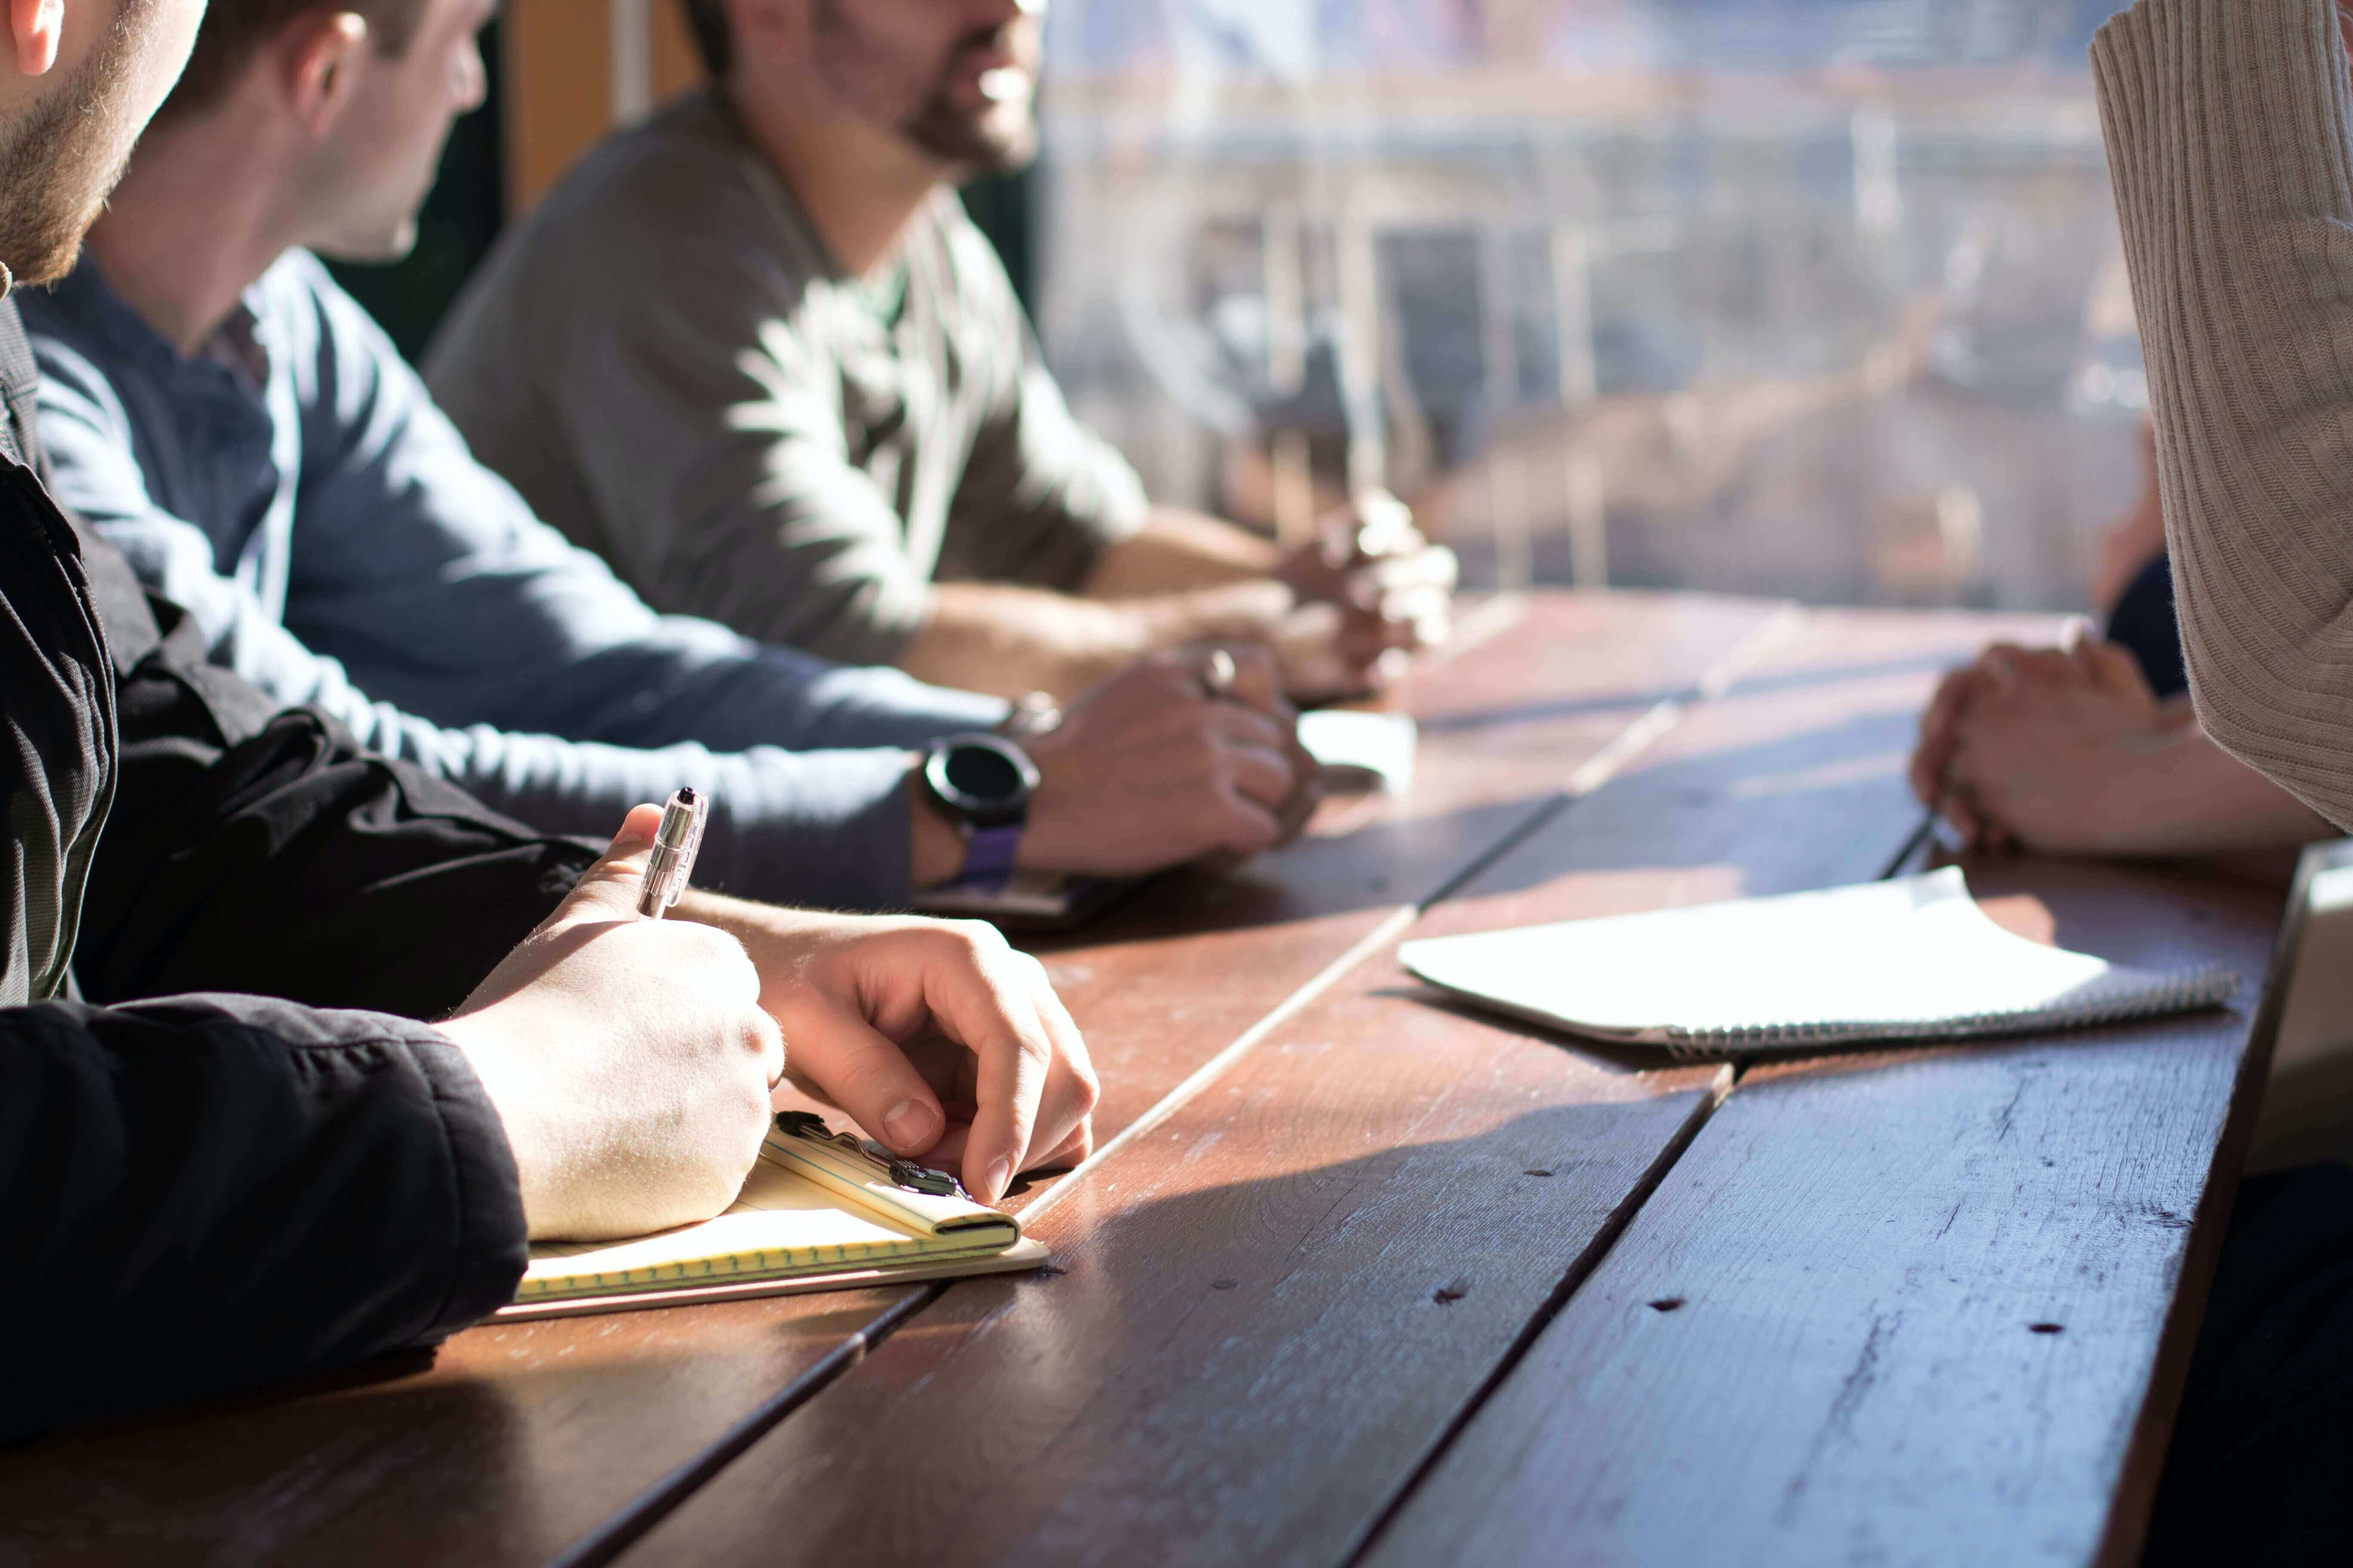
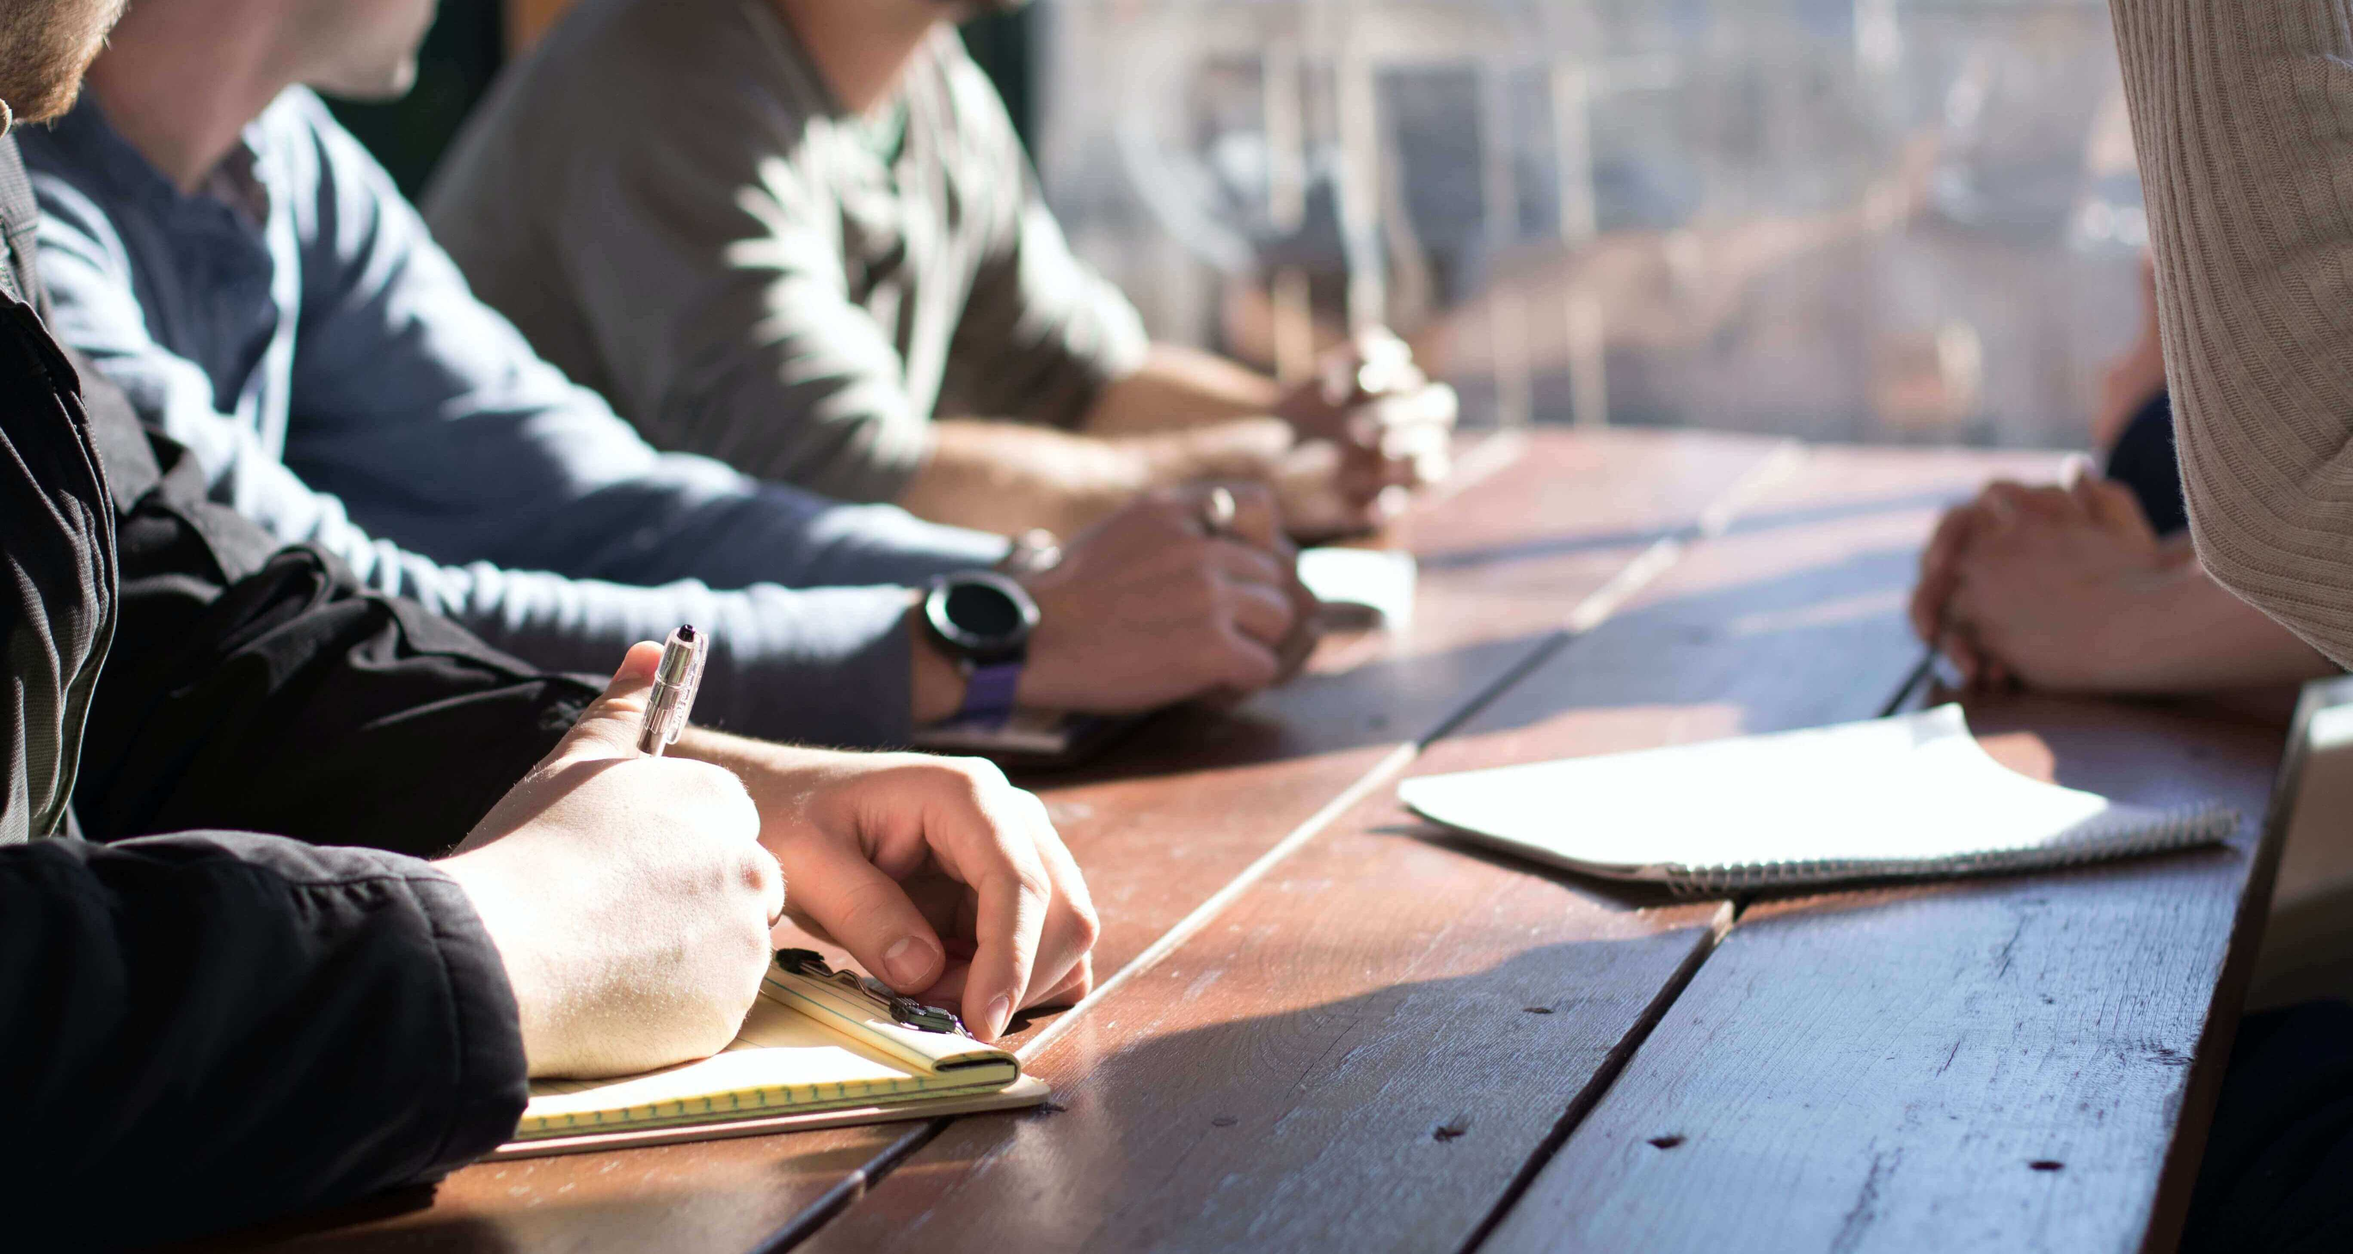
edit sass

diff --git a/css/main.css b/css/main.css
@@ -1,8 +1,3 @@
-.quienesSomos h2, .quienesSomos p {
-  font-family: "Open Sans";
-  text-align: center;
-  padding: 10px; }
-
 * {
   margin: 0;
   padding: 0; }
@@ -43,6 +38,15 @@
         margin: 10px 50px 10px 0px; }
       .footer__sec__redes img {
         height: 50px; }
+
+.banner {
+  position: relative; }
+  .banner__img {
+    position: relative;
+    height: 400px; }
+
+.imagen__texto {
+  position: absolute; }
 
 .imagen__h2 {
   color: #fec82f;
@@ -99,6 +103,8 @@
     background-image: linear-gradient(#00659fa1, #00659fc1); }
 
 @media only screen and (max-width: 768px) {
+  .banner__img {
+    height: 300px; }
   .footer__sec__ssn img {
     width: 250px; }
   .footer__sec__redes a {
@@ -106,11 +112,6 @@
   .boton__cotizacion {
     position: relative;
     left: 0%; } }
-
-.quienesSomos h2, .quienesSomos p {
-  font-family: "Open Sans";
-  text-align: center;
-  padding: 10px; }
 
 .carousel-item {
   height: 400px; }
@@ -137,11 +138,9 @@
   transform: scale(1.2); }
 
 .quienesSomos {
-  height: auto;
+  height: fit-content;
   background-color: whitesmoke;
-  background-image: url("../Imagenes/fondoqs.jpg");
-  background-position: center;
-  background-size: cover;
+  font-family: "Open Sans";
   text-align: center;
   padding: 30px 200px; }
   .quienesSomos p {
@@ -170,17 +169,7 @@
     .carousel-item img {
       height: 250px; }
   .quienesSomos {
-    background-size: cover;
-    padding: 20px; }
-    .quienesSomos h2 {
-      padding: 5px;
-      margin-top: 40px; } }
-
-.agro {
-  height: 400px;
-  background-color: grey;
-  background-image: url(../../Imagenes/agro.jpg);
-  background-size: cover; }
+    padding: 20px; } }
 
 .cedasaba {
   display: flex;
@@ -196,65 +185,13 @@
   .cedasaba img {
     height: 100px; }
 
-@media only screen and (max-width: 768px) {
-  .agro {
-    height: 300px; } }
+.auditoria__text {
+  margin: 20px;
+  font-family: "Open Sans";
+  font-size: 20px; }
 
-.auditoria {
-  height: 400px;
-  background-color: grey;
-  background-image: url(/Imagenes/relevamiento.jpg);
-  background-size: cover; }
-  .auditoria__text {
-    margin: 20px;
-    font-family: "Open Sans";
-    font-size: 20px; }
-  .auditoria__aviso {
-    font-weight: bolder;
-    border: solid 3px #003e55;
-    padding: 10px;
-    text-align: center; }
-
-@media only screen and (max-width: 768px) {
-  .auditoria {
-    height: 300px; } }
-
-.empresa {
-  height: 400px;
-  background-color: grey;
-  background-image: url(/Imagenes/paratuempresa.jpg);
-  background-size: cover; }
-
-@media only screen and (max-width: 768px) {
-  .empresa {
-    height: 300px; } }
-
-.persona {
-  height: 400px;
-  background-color: grey;
-  background-image: url(/Imagenes/paravos.jpg);
-  background-size: cover; }
-
-@media only screen and (max-width: 768px) {
-  .persona {
-    height: 300px; } }
-
-.cotizacion {
-  height: 400px;
-  background-color: grey;
-  background-image: url(/Imagenes/cotizacion.jpg);
-  background-size: cover; }
-
-@media only screen and (max-width: 768px) {
-  .cotizacion {
-    height: 300px; } }
-
-.productores {
-  height: 400px;
-  background-color: grey;
-  background-image: url(/Imagenes/productores.jpg);
-  background-size: cover; }
-
-@media only screen and (max-width: 768px) {
-  .productores {
-    height: 300px; } }
+.auditoria__aviso {
+  font-weight: bolder;
+  border: solid 3px #003e55;
+  padding: 10px;
+  text-align: center; }

diff --git a/index.html b/index.html
@@ -66,13 +66,13 @@
       </div>
       <div class="carousel-inner">
         <div class="carousel-item active">
-          <img src="./Imagenes/fondo1.png" class="d-block w-100" alt="Imagen de fondo">
+          <img src="./Imagenes/fondo1.jpg" class="d-block w-100" alt="Imagen de fondo">
         </div>
         <div class="carousel-item">
-          <img src="./Imagenes/fondo2.png" class="d-block w-100" alt="Imagen de fondo">
+          <img src="./Imagenes/fondo2.jpg" class="d-block w-100" alt="Imagen de fondo">
         </div>
         <div class="carousel-item">
-          <img src="./Imagenes/fondo3.png" class="d-block w-100" alt="Imagen de fondo">
+          <img src="./Imagenes/fondo3.jpg" class="d-block w-100" alt="Imagen de fondo">
         </div>
       </div>
       <button class="carousel-control-prev" type="button" data-bs-target="#carouselExampleIndicators" data-bs-slide="prev">

diff --git a/scss/components/_index.scss b/scss/components/_index.scss
@@ -1,5 +1,3 @@
-@import '../variables';
-
 .carousel-item{
     height: 400px;
     img{
@@ -27,21 +25,15 @@
 }
 
 .quienesSomos{
-    height: auto;
+    height: fit-content;
     background-color: map-get($colores, fondo);
-    background-image: url("../Imagenes/fondoqs.jpg");
-    background-position: center;
-    background-size: cover;
+    font-family: map-get($fonts, texto);
     text-align: center;
     padding: 30px 200px;
-    h2{
-        @extend %text-center;
-    }
     p{
-        @extend %text-center;
         font-weight: bold;
-
     }
+
 }
 
 .formulario{
@@ -75,12 +67,6 @@
     }
 
     .quienesSomos{
-        background-size: cover;
         padding: 20px;
-        h2{
-             padding: 5px;
-             margin-top: 40px;
-        }
     }
-
 }

diff --git a/paginas/pedi-tu-cotizacion.html b/paginas/pedi-tu-cotizacion.html
@@ -51,9 +51,12 @@
     </nav>
   </header>
   <main>
-    <section class="cotizacion">
-      <h2 class="imagen__h2">Pedí tu cotización</h2>   
-      <h4 class="imagen__h4">Compelta el formulario para poder darte el mejor asesoramiento</h4>
+    <section class="banner row">
+      <img src="../Imagenes/cotizacion.jpg" alt="Foto de fondo de una persona usando la computadora" class="banner__img">
+      <div class="imagen__texto">
+        <h2 class="imagen__h2">Pedí tu cotización</h2>   
+        <h4 class="imagen__h4">Compelta el formulario para poder darte el mejor asesoramiento</h4>
+      </div>
     </section>
     <section class="titulo__linea">  <h4>FORMULARIO DE COTIZACIÓN</h4></section>
     <Section class="formulario">

diff --git a/paginas/agroindustria.html b/paginas/agroindustria.html
@@ -51,10 +51,13 @@
     </nav>
   </header>
 
-  <main class="main__agro">
-    <section class="agro">
-      <h2 class="imagen__h2">Agroindustria</h2>   
-      <h4 class="imagen__h4">Proteje el cultivo de tu esfuerzo</h4>
+  <main>
+    <section class="banner row">
+      <img src="../Imagenes/agro.jpg" alt="Foto de fondo con tematica agro" class="banner__img">
+      <div class="imagen__texto">
+        <h2 class="imagen__h2">Agroindustria</h2>   
+        <h4 class="imagen__h4">Proteje el cultivo de tu esfuerzo</h4>
+      </div>
     </section>
     <section class="titulo__linea"><h4>PRODUCTOS QUE COMERCIALIZAMOS</h4></section>
     <section class="accordion accordion-flush row" id="accordionFlushExample">

diff --git a/paginas/productores.html b/paginas/productores.html
@@ -51,9 +51,12 @@
     </nav>
   </header>
   <main>
-    <section class="productores">
-      <h2 class="imagen__h2">Productores asesores de seguros</h2>   
-      <h4 class="imagen__h4">Sumate a nuestra red de productores</h4>
+    <section class="banner row">
+      <img src="../Imagenes/productores.jpg" alt="Foto de fondo de un equipo de trabajo" class="banner__img">
+      <div class="imagen__texto">
+        <h2 class="imagen__h2">Productores asesores de seguros</h2>   
+        <h4 class="imagen__h4">Sumate a nuestra red de productores</h4>
+      </div>
     </section>
     <section class="titulo__linea"><h4>FORMULARIO DE CONTACTO</h4></section>
     <section class="formulario">

diff --git a/paginas/auditoria-de-riesgo.html b/paginas/auditoria-de-riesgo.html
@@ -51,9 +51,12 @@
     </nav>
   </header>
   <main>
-    <section class="auditoria">
-      <h2 class="imagen__h2">Auditoría de riesgo</h2>   
-      <h4 class="imagen__h4">Seguí protegiendo tu patrimonio</h4>
+    <section class="banner row">
+      <img src="../Imagenes/relevamiento.jpg" alt="Foto de fondo de gente trabajando" class="banner__img">
+      <div class="imagen__texto">
+        <h2 class="imagen__h2">Auditoría de riesgo</h2>   
+        <h4 class="imagen__h4">Seguí protegiendo tu patrimonio</h4>
+      </div>
     </section>
     <section class="auditoria__text row justify-content-center align-items-center">
       <div class="auditoria__info col-lg-8 col-sm-10">

diff --git a/paginas/para-tu-empesa.html b/paginas/para-tu-empesa.html
@@ -52,9 +52,12 @@
   </header>
 
   <main>
-    <section class="empresa">
-      <h2 class="imagen__h2">Para tu empresa</h2>   
-      <h4 class="imagen__h4">Proteje tu capital de trabajo</h4>
+    <section class="banner row">
+      <img src="../Imagenes/paratuempresa.jpg" alt="Foto de fondo de una logistica" class="banner__img">
+      <div class="imagen__texto">
+        <h2 class="imagen__h2">Para tu empresa</h2>   
+        <h4 class="imagen__h4">Proteje tu capital de trabajo</h4>
+      </div>
     </section>
     <section class="titulo__linea"><h4>PRODUCTOS QUE COMERCIALIZAMOS</h4></section>
     <section class="accordion accordion-flush row" id="accordionFlushExample">

diff --git a/paginas/para-vos.htm b/paginas/para-vos.htm
@@ -51,9 +51,12 @@
     </nav>
   </header>
   <main>
-    <section class="persona">
-      <h2 class="imagen__h2">Para vos</h2>   
-      <h4 class="imagen__h4">Proteje lo que mas queres</h4>
+    <section class="banner row">
+      <img src="../Imagenes/paravos.jpg" alt="Foto de fondo de una familia" class="banner__img">
+      <div class="imagen__texto">
+        <h2 class="imagen__h2">Para vos</h2>   
+        <h4 class="imagen__h4">Proteje lo que mas queres</h4>
+      </div>
     </section>
     <section class="titulo__linea">  <h4>PRODUCTOS QUE COMERCIALIZAMOS</h4></section>
     <section class="accordion accordion-flush row" id="accordionFlushExample">

diff --git a/scss/components/_general.scss b/scss/components/_general.scss
@@ -42,7 +42,17 @@
     }
 }
 
+.banner{
+    position: relative;
+    &__img{
+        position: relative;
+        height: 400px;
+    }
+}
 .imagen{
+    &__texto{
+        position: absolute;
+    }
     &__h2{
         color: map-get($colores, secundario);
         font-family: map-get($fonts, titulo);
@@ -108,6 +118,12 @@
 }
 
 @media only screen and (max-width: 768px){
+    .banner{
+        &__img{
+            height: 300px;
+        }
+    }
+   
     .footer__sec__ssn img{
         width: 250px;
     }

diff --git a/scss/_variables.scss b/scss/_variables.scss
@@ -16,22 +16,9 @@ $tamanio-tipografia:(
     parrafo: 16px,
 );
 
-%text-center{
-    font-family: map-get($fonts, texto);
-    text-align: center;
-    padding: 10px;  
-};
-
 @mixin flexbox ($direction, $justify) {
     display: flex;
     flex-direction: $direction;
     align-items: center;
     justify-content: $justify ;
-};
-
-@mixin banners ($url) {
-    height: 400px;
-    background-color: map-get($colores, fondo-imagenes);
-    background-image: $url;
-    background-size: cover;
 };

diff --git a/scss/components/_auditoria.scss b/scss/components/_auditoria.scss
@@ -1,6 +1,4 @@
 .auditoria{
-    @include banners (url(/Imagenes/relevamiento.jpg));
-
     &__text{
         margin: 20px;
         font-family: map-get($fonts,texto);
@@ -14,8 +12,3 @@
     }
 }
 
-@media only screen and (max-width: 768px){
-    .auditoria{
-        height: 300px;
-    }
-}
